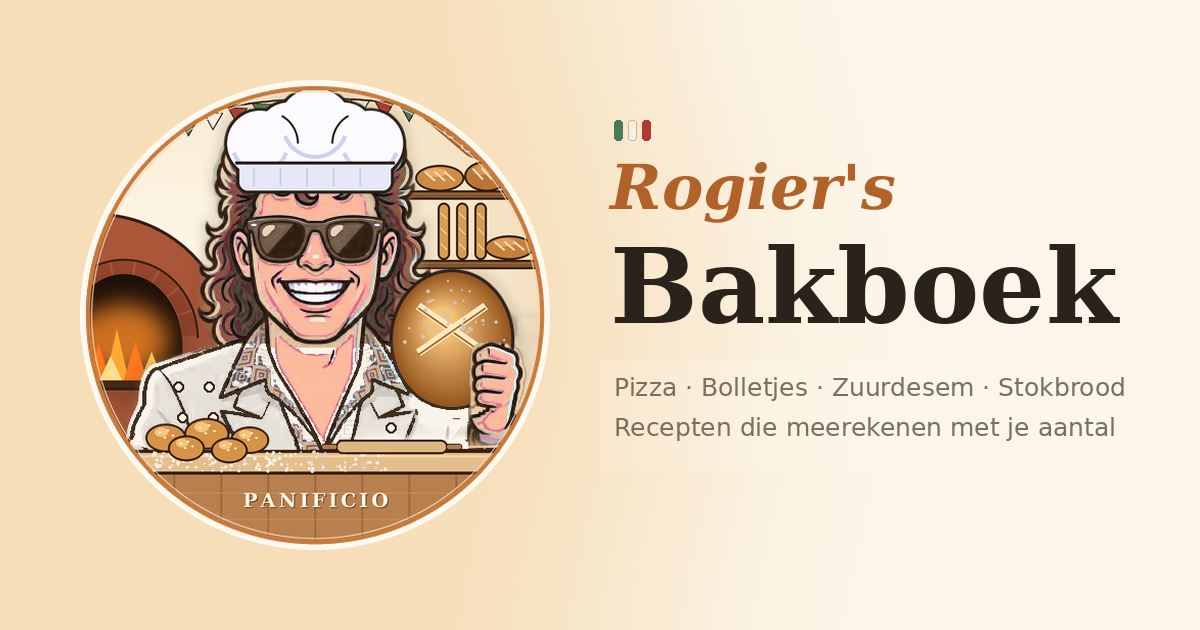
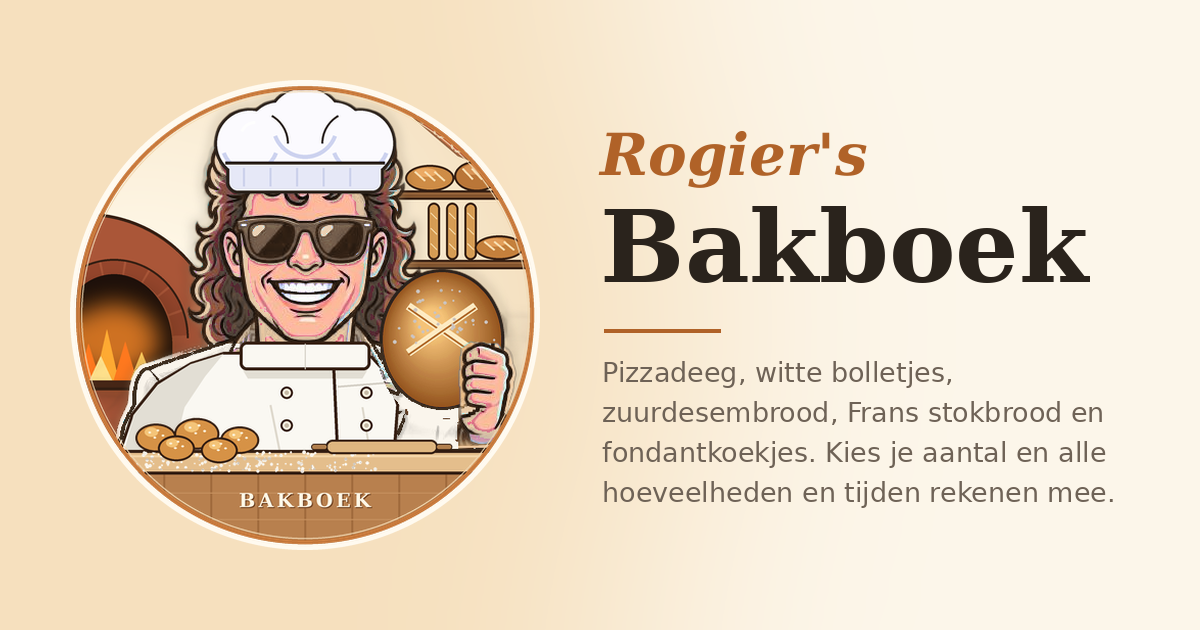
Deelbanner en icoon: koksbuis, geen Italiaans thema, volledige beschrijving
Claude-Session: https://claude.ai/code/session_01SzxQG6kYqwiDNdyQbrdGTq

Changed region(s): [[0.0308, 0.1206, 0.4625, 0.8746], [0.4933, 0.181, 0.9558, 0.5429], [0.4933, 0.573, 0.9558, 0.8143]]

diff --git a/index.html b/index.html
@@ -10,7 +10,7 @@
 <meta property="og:title" content="Rogier's Bakboek">
 <meta property="og:description" content="Pizzadeeg, witte bolletjes, zuurdesembrood, Frans stokbrood en fondantkoekjes. Kies je aantal en alle hoeveelheden en tijden rekenen mee.">
 <meta property="og:url" content="https://rogierpost89.github.io/Rogiers-Bakboek/">
-<meta property="og:image" content="https://rogierpost89.github.io/Rogiers-Bakboek/og-image.png">
+<meta property="og:image" content="https://rogierpost89.github.io/Rogiers-Bakboek/og-image.png?v=2">
 <meta property="og:image:width" content="1200">
 <meta property="og:image:height" content="630">
 <meta property="og:locale" content="nl_NL">
